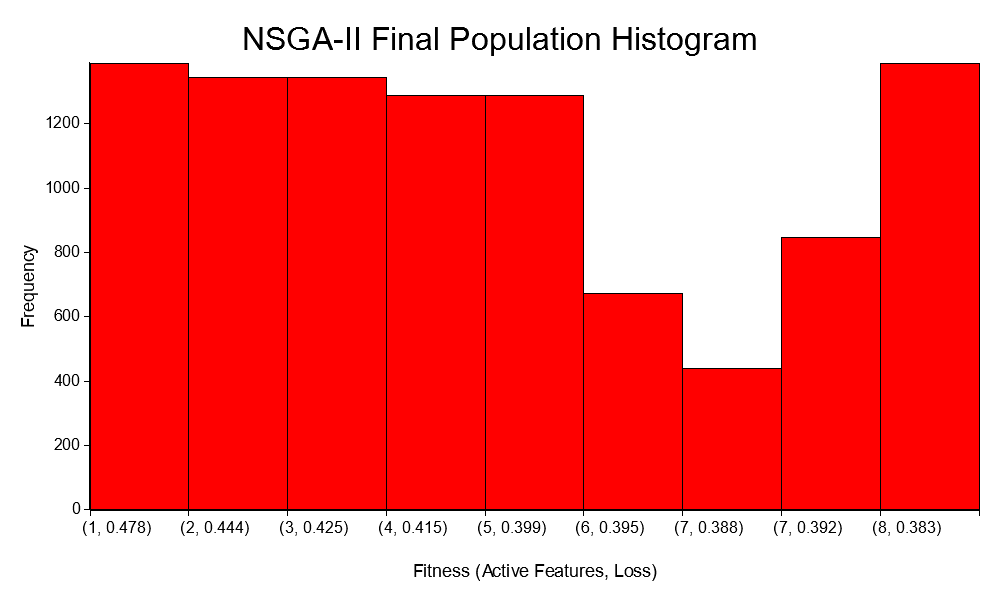
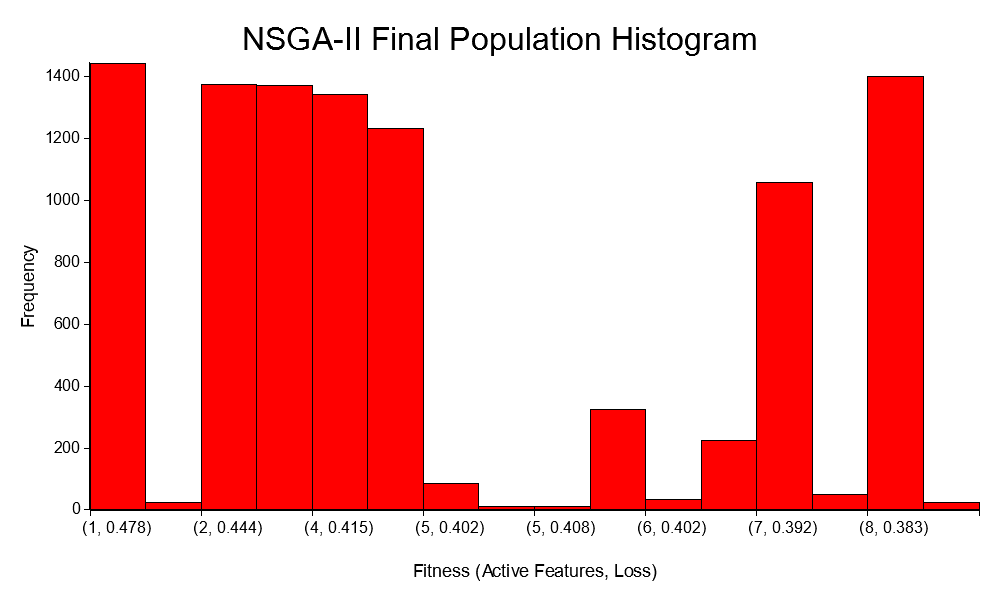
Update mutation probability calculation and modify output summaries for NSGA-II results

diff --git a/src/algorithms/moo/moo.rs b/src/algorithms/moo/moo.rs
@@ -617,7 +617,7 @@ where
     // Initial nondominated sort and assign crowding distances.
     let mut sorted_population = fast_nondominated_sort(population.clone());
     assign_crowding_distance_all(&mut sorted_population);
-    let mutation_probability = 0.1;
+    let mutation_probability = 1.0 / gene_length as f64;
     population = sorted_population.clone();
 
     // Record start time for time-based termination.
